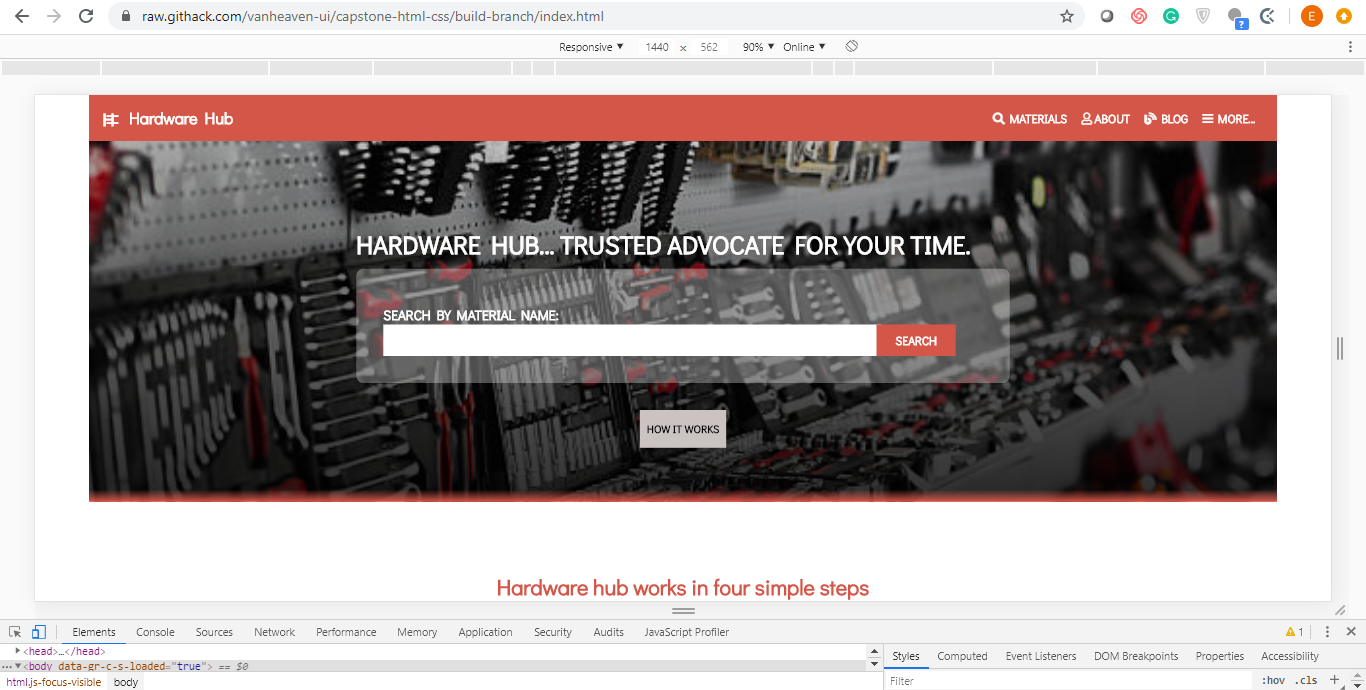
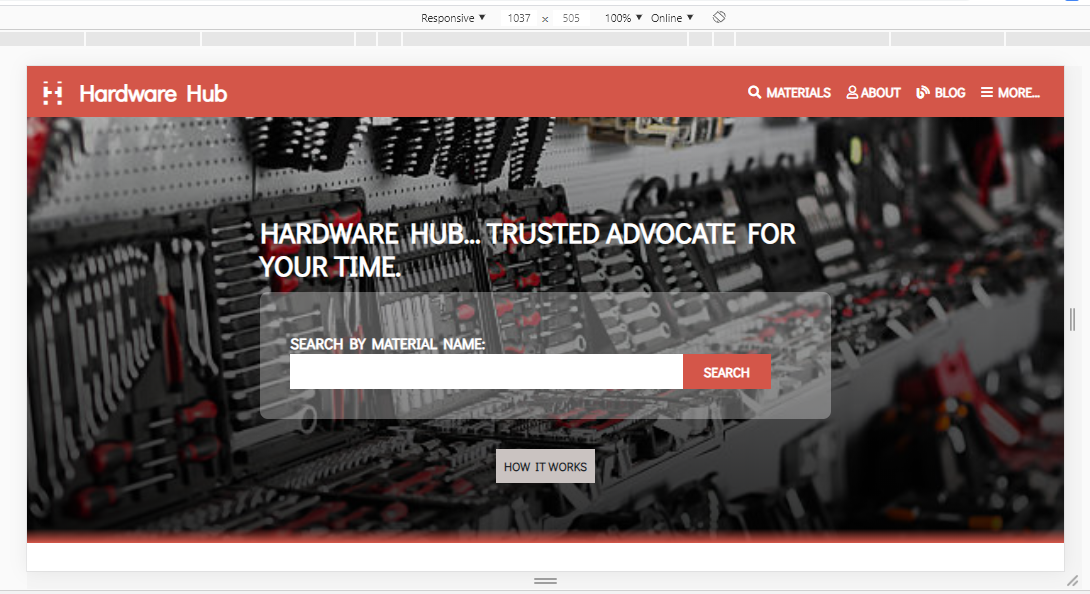
update README.md screenshots

diff --git a/README.md b/README.md
@@ -5,6 +5,8 @@ This projected was completed under Microverse remote software development curric
 
 Here is a screenshot of the clone 
 
+![Large size screenshot](./images/screenshot-xl.png)
+
 ![Large size screenshot](./images/screenshot-lg.png)
 
 ![Medium size screenshot](./images/screenshot-md.png)
